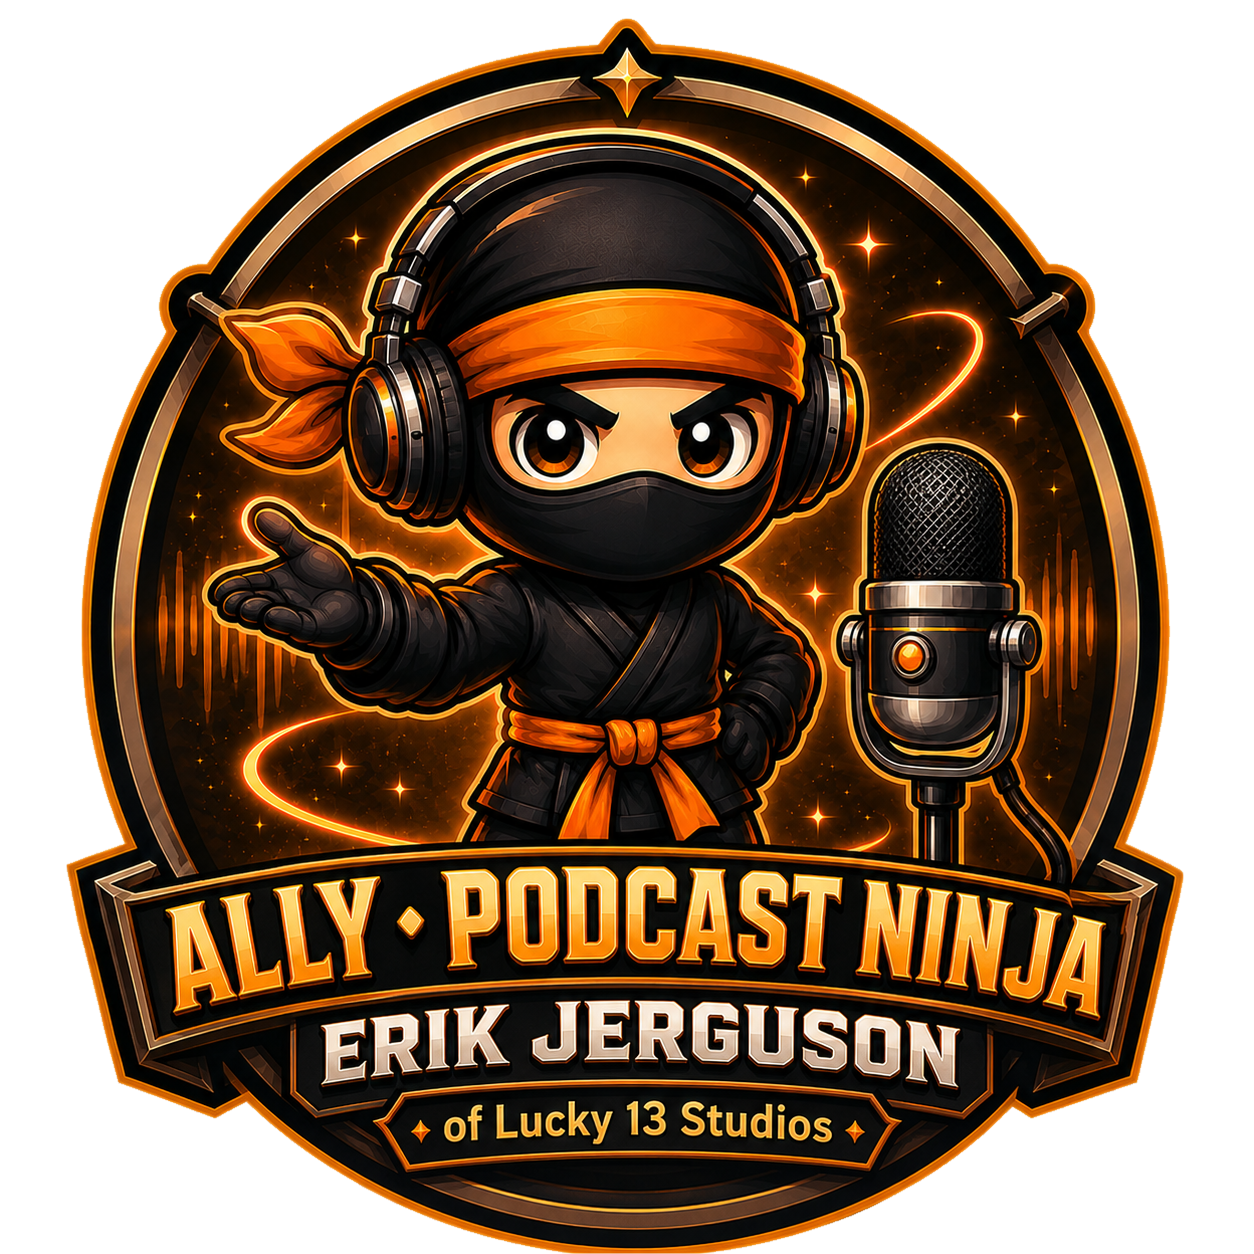
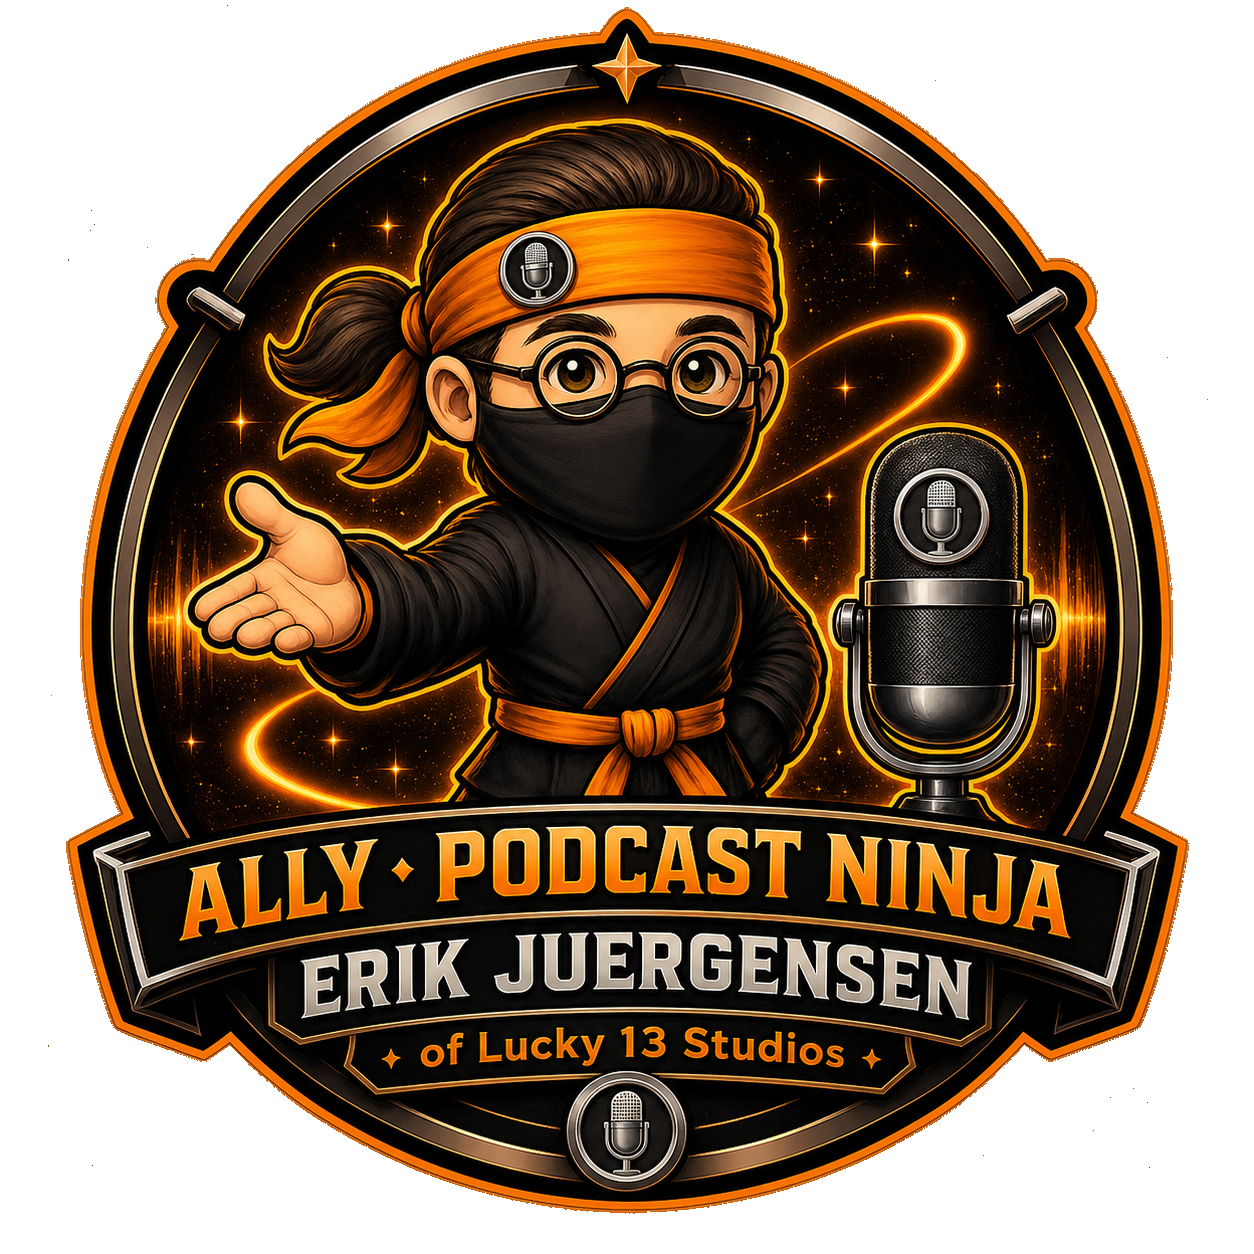
assets: new Tim + Erik emblems everywhere, and stop shipping 3MB PNGs
New art for the two ninjas, cut out to transparent PNG to match the
site's emblem convention (the ChatGPT exports arrived as flat RGB with
a baked-in orange gradient — dropped in raw they would have rendered as
squares on every page, and /foundinkc would have cropped the badge into
a circle). Background removed with an edge-aware flood fill, then the
96px and 320px webp variants regenerated from the cutouts.

Erik's new emblem also spells "Juergensen" correctly, retiring the
known "Jerguson" artwork misspelling.

Separately: every emblem <img> in public/ pointed at the full 1254px
source PNG while displaying at 24-150px. The Game Plan alone pulled
~18MB of art for eight small icons. All 26 references now use the
right-sized webp (96 for <=44px, 320 above) — same pixels, ~100x
lighter. Covers Gabe and Pavan too, since they sit on the same pages.

diff --git a/public/gameplan/index.html b/public/gameplan/index.html
@@ -217,14 +217,14 @@
     <p class="section-intro"><b>Who's on what — the whole roster in one look</b> (a dash just means that leg isn't theirs — each leg's work and pay belong to the people on it):</p>
     <div class="n360-tw"><table>
       <tr><th style="width:96px">Who</th><th>Leg 1 · Client Work</th><th>Leg 2 · The Engine</th><th>Leg 3 · Podcast</th><th>Leg 4 · Courses</th></tr>
-      <tr><td class="wk"><img src="/assets/crew/crew-tim-emblem.png" alt="" class="who-emblem">Tim</td><td class="mx-in">Owns · sells · captures</td><td class="mx-in">Scopes + pays</td><td class="mx-in">Co-host</td><td class="mx-in">Subject matter</td></tr>
-      <tr><td class="wk"><img src="/assets/crew/crew-gabe-emblem.png" alt="" class="who-emblem">Gabe</td><td class="mx-in">Premium capture</td><td class="mx-out">—</td><td class="mx-in">Co-host · director / editor</td><td class="mx-in">Production</td></tr>
-      <tr><td class="wk"><img src="/assets/crew/crew-pavan-emblem.png" alt="" class="who-emblem">Pavan</td><td class="mx-in">Field help only</td><td class="mx-in">Builds + owns rails</td><td class="mx-out">—</td><td class="mx-out">—</td></tr>
-      <tr><td class="wk"><img src="/assets/crew/crew-erik-emblem.png" alt="" class="who-emblem">Erik</td><td class="mx-out">—</td><td class="mx-out">—</td><td class="mx-in"><i>Potential</i> co-host</td><td class="mx-out">—</td></tr>
+      <tr><td class="wk"><img src="/assets/crew/web/crew-tim-emblem-96.webp" alt="" class="who-emblem">Tim</td><td class="mx-in">Owns · sells · captures</td><td class="mx-in">Scopes + pays</td><td class="mx-in">Co-host</td><td class="mx-in">Subject matter</td></tr>
+      <tr><td class="wk"><img src="/assets/crew/web/crew-gabe-emblem-96.webp" alt="" class="who-emblem">Gabe</td><td class="mx-in">Premium capture</td><td class="mx-out">—</td><td class="mx-in">Co-host · director / editor</td><td class="mx-in">Production</td></tr>
+      <tr><td class="wk"><img src="/assets/crew/web/crew-pavan-emblem-96.webp" alt="" class="who-emblem">Pavan</td><td class="mx-in">Field help only</td><td class="mx-in">Builds + owns rails</td><td class="mx-out">—</td><td class="mx-out">—</td></tr>
+      <tr><td class="wk"><img src="/assets/crew/web/crew-erik-emblem-96.webp" alt="" class="who-emblem">Erik</td><td class="mx-out">—</td><td class="mx-out">—</td><td class="mx-in"><i>Potential</i> co-host</td><td class="mx-out">—</td></tr>
     </table></div>
     <!-- LEG 1 -->
     <div class="leg">
-      <div class="leg-head"><span class="disp">Leg 1 · Client Work</span><span class="tag">Bucket A</span><span class="pill">On the Map</span><img src="/assets/crew/crew-tim-emblem.png" alt="" class="leg-emblem"><div class="leg-tldr">Serving the clients Tim already has. This is what pays the bills today.</div></div>
+      <div class="leg-head"><span class="disp">Leg 1 · Client Work</span><span class="tag">Bucket A</span><span class="pill">On the Map</span><img src="/assets/crew/web/crew-tim-emblem-96.webp" alt="" class="leg-emblem"><div class="leg-tldr">Serving the clients Tim already has. This is what pays the bills today.</div></div>
       <div class="leg-body">
         <div class="row"><div class="rlabel">What</div><div class="rval">Get KC businesses found &amp; chosen on Google: visibility audits, GBP optimization, 360 / drone / cinematic media, White → Black belt packages, the AI-Search NAP standard.</div></div>
         <div class="row"><div class="rlabel">Who</div><div class="rval"><span class="who"><b>Tim</b> · owns it — sells + captures</span><span class="who"><b>Gabe</b> · premium capture on Brown/Black jobs</span><span class="who"><b>Pavan</b> · field help only</span></div></div>
@@ -236,7 +236,7 @@
 
     <!-- LEG 2 -->
     <div class="leg">
-      <div class="leg-head"><span class="disp">Leg 2 · The Engine</span><span class="tag">Bucket B</span><span class="pill">On the Map</span><span class="pill">Sharpen the Blade</span><img src="/assets/crew/crew-pavan-emblem.png" alt="" class="leg-emblem"><div class="leg-tldr">Pavan builds the machine that brings in new clients — ready for the big September push.</div></div>
+      <div class="leg-head"><span class="disp">Leg 2 · The Engine</span><span class="tag">Bucket B</span><span class="pill">On the Map</span><span class="pill">Sharpen the Blade</span><img src="/assets/crew/web/crew-pavan-emblem-96.webp" alt="" class="leg-emblem"><div class="leg-tldr">Pavan builds the machine that brings in new clients — ready for the big September push.</div></div>
       <div class="leg-body">
         <div class="row"><div class="rlabel">What</div><div class="rval">The system that finds and lands <b>fresh customers</b>: outreach, free audits, a sales pipeline, and the automation behind it. Built piece by piece: invoice engine → shoot-wrap form → GHL pipeline → free-audit lead magnet → shoot automation (auto-sort, auto-color, auto-nadir, Shedit) → hardening.<br><a class="roadmap-link" href="/roadmaps/pavan">Full week-by-week detail: the Pavan roadmap →</a></div></div>
         <div class="row"><div class="rlabel">Who</div><div class="rval"><span class="who"><b>Pavan</b> · builds and runs it</span><span class="who"><b>Tim</b> · scopes, approves, pays</span></div></div>
@@ -248,7 +248,7 @@
 
     <!-- LEG 3 -->
     <div class="leg">
-      <div class="leg-head"><span class="disp">Leg 3 · "Found in KC" Podcast</span><span class="tag">Bucket B</span><span class="pill">True Story</span><img src="/assets/crew/crew-gabe-emblem.png" alt="" class="leg-emblem"><div class="leg-tldr">Tim + Gabe's show. Turns client wins into episodes — and makes Ninja-360 the name in KC.</div></div>
+      <div class="leg-head"><span class="disp">Leg 3 · "Found in KC" Podcast</span><span class="tag">Bucket B</span><span class="pill">True Story</span><img src="/assets/crew/web/crew-gabe-emblem-96.webp" alt="" class="leg-emblem"><div class="leg-tldr">Tim + Gabe's show. Turns client wins into episodes — and makes Ninja-360 the name in KC.</div></div>
       <div class="leg-body">
         <div class="row"><div class="rlabel">What</div><div class="rval"><b>The megaphone for everything else.</b> One show, not five formats. Client wins become episodes. Prospects become guests. The courses get a built-in audience. <i>Tagline: we put local businesses on the M.A.P.</i></div></div>
         <div class="row"><div class="rlabel">Who</div><div class="rval"><span class="who"><b>Tim + Gabe</b> · co-hosts</span><span class="who"><b>Gabe</b> · director / DP / editor</span><span class="who"><b>The customer</b> · featured guest</span><span class="who"><b>Erik</b> · <i>maybe</i> — Lucky 13 Studios + a co-host chair</span><br><span style="font-size:14px;color:var(--gray)"><b>Erik isn't locked yet.</b> The proposed trade: we host his site + set up his visibility ↔ we get his studio, his audience, and a co-host chair. Review it at 90 days. If he's in, he's in the show only — not the engine, not the client book.</span></div></div>
@@ -260,7 +260,7 @@
 
     <!-- LEG 4 -->
     <div class="leg">
-      <div class="leg-head"><span class="disp">Leg 4 · Ninja Trainings</span><span class="tag">Bucket B · starts Q4</span><span class="pill">Sharpen the Blade</span><img src="/assets/crew/crew-tim-emblem.png" alt="" class="leg-emblem"><div class="leg-tldr">Courses we film this fall and sell next year — the know-how, turned into a product.</div></div>
+      <div class="leg-head"><span class="disp">Leg 4 · Ninja Trainings</span><span class="tag">Bucket B · starts Q4</span><span class="pill">Sharpen the Blade</span><img src="/assets/crew/web/crew-tim-emblem-96.webp" alt="" class="leg-emblem"><div class="leg-tldr">Courses we film this fall and sell next year — the know-how, turned into a product.</div></div>
       <div class="leg-body">
         <div class="row"><div class="rlabel">What</div><div class="rval">Courses that sell while you sleep and train future field techs: FAA Part 107 <b>prep</b> · 360 photography (capture → stitch → publish) · more later (mobile DJI, edit craft, owner visibility).<br><a class="roadmap-link" href="/roadmaps/gabe">Detail: Gabe roadmap · Bucket 4 →</a></div></div>
         <div class="row"><div class="rlabel">Who</div><div class="rval"><span class="who"><b>Tim</b> · the expert on camera</span><span class="who"><b>Gabe</b> · films + produces</span></div></div>

diff --git a/public/legacy/roadmaps/pavan.html b/public/legacy/roadmaps/pavan.html
@@ -88,7 +88,7 @@
 
 <section>
   <div class="wrap">
-    <img src="/assets/crew/crew-pavan-emblem.png" alt="Pavan — Development Ninja" style="width:150px;float:right;margin-top:-6px;margin-left:14px;filter:drop-shadow(0 4px 10px rgba(0,0,0,.12))">
+    <img src="/assets/crew/web/crew-pavan-emblem-320.webp" alt="Pavan — Development Ninja" style="width:150px;float:right;margin-top:-6px;margin-left:14px;filter:drop-shadow(0 4px 10px rgba(0,0,0,.12))">
     <div class="wordmark">NINJA-360</div>
     <a class="backlink" href="../index.html">← Ninja-360 Dojo</a>
     <div class="kicker" style="margin-top:20px">Pavan Roadmap · Interleaved Phase-2 Plan · V01</div>
@@ -103,19 +103,19 @@
     <h2><span class="num">01 ·</span> Locked Principles</h2>
     <div class="principles">
       <div class="principle">
-        <img src="/assets/crew/crew-pavan-emblem.png" alt="" class="principle-mark">
+        <img src="/assets/crew/web/crew-pavan-emblem-96.webp" alt="" class="principle-mark">
         <div class="n">Principle 1</div>
         <h3>Interleaved, not sequential</h3>
         <p>Each week = one training module (manual) + one real build deliverable. Learn by doing, not by finishing a course first.</p>
       </div>
       <div class="principle">
-        <img src="/assets/crew/crew-pavan-emblem.png" alt="" class="principle-mark">
+        <img src="/assets/crew/web/crew-pavan-emblem-96.webp" alt="" class="principle-mark">
         <div class="n">Principle 2</div>
         <h3>AI modules are earned</h3>
         <p>Manual competency is the gate — Pavan proves he can do a step by hand <b>before</b> he gets the AI/automation module for it. Research-backed; locked by Tim.</p>
       </div>
       <div class="principle">
-        <img src="/assets/crew/crew-tim-emblem.png" alt="" class="principle-mark">
+        <img src="/assets/crew/web/crew-tim-emblem-96.webp" alt="" class="principle-mark">
         <div class="n">Principle 3</div>
         <h3>Start the clocks NOW</h3>
         <p>Two foundation items take real calendar time regardless of effort. They kick off <b>W1</b> and run in the background so they don't bottleneck the back half of the sprint.</p>
@@ -131,7 +131,7 @@
 
     <div class="clocks">
       <div class="clock">
-        <img src="/assets/crew/crew-pavan-emblem.png" alt="" class="clock-mark">
+        <img src="/assets/crew/web/crew-pavan-emblem-320.webp" alt="" class="clock-mark">
         <span class="tag">Clock 1 · Deliverability</span>
         <h3>Email Warm-Up</h3>
         <p class="why">Stand up <code>mail.</code> + <code>noreply.</code> subdomains with SPF/DKIM/DMARC per the domain strategy, then <b>ramp send volume gradually over ~3–6 weeks</b> to build sender reputation before any real marketing sends.</p>
@@ -140,7 +140,7 @@
       </div>
 
       <div class="clock">
-        <img src="/assets/crew/crew-pavan-emblem.png" alt="" class="clock-mark">
+        <img src="/assets/crew/web/crew-pavan-emblem-320.webp" alt="" class="clock-mark">
         <span class="tag">Clock 2 · SMS Compliance</span>
         <h3>A2P 10DLC / Toll-Free Registration</h3>
         <p class="why">Submit brand + campaign registration — <b>this is the same registration that clears the toll-free SMS block (Error 30032)</b>. Approval clock is days-to-weeks.</p>
@@ -158,7 +158,7 @@
 
 <section class="alt">
   <div class="wrap">
-    <img src="/assets/crew/crew-pavan-emblem.png" alt="Pavan — engine ninja" class="ninja-mark">
+    <img src="/assets/crew/web/crew-pavan-emblem-320.webp" alt="Pavan — engine ninja" class="ninja-mark">
     <h2><span class="num">03 ·</span> Interleaved Week by Week</h2>
     <p style="max-width:680px">Aligned to the 90-day sprint · <b>W2 = 7/20 kickoff</b>. Every week: one manual module + one build deliverable. Rows shaded <span class="earntag">EARNED</span> = AI / automation modules that unlock <b>after</b> manual competency.</p>
 

diff --git a/public/scrolls/warp-speed/index.html b/public/scrolls/warp-speed/index.html
@@ -147,7 +147,7 @@
   <h1>Ninja Warp Speed</h1>
   <p class="lead">The production pipeline. <b>One client visit → the client deliverable + the show — "Found in KC" <span style="font-weight:400">(we put local businesses on the M.A.P.).</span></b> Automation bolted onto your already-proven Hasan editing system — not a rebuild. The goal: faster to publish than anyone, so you get paid faster.</p>
 
-  <img src="/assets/crew/crew-tim-emblem.png" alt="Tim — Track 1" class="ws-mark" style="width:80px">
+  <img src="/assets/crew/web/crew-tim-emblem-320.webp" alt="Tim — Track 1" class="ws-mark" style="width:80px">
   <h2>1 · The One-Visit Model — Two Tracks, Two Outputs</h2>
   <div class="visit">
     <div class="top">One trip to the client's location</div>
@@ -223,9 +223,9 @@
     <div style="font-size:12.8px;color:#e8e2dc;margin-top:4px">The pipeline, the coined IP, every preset, template, script, LUT, and frame of footage sits with <b style="color:#fff">Ninja-360 Digital Media LLC</b> (operating as ninja360.net). The roles below are <b style="color:#fff">who builds and operates</b> each piece — not who owns it. Everything a partner creates here is <b style="color:#fff">work-for-hire assigned to the LLC</b>, per the Partner Framework. Tim owns the LLC; the LLC holds the IP — so it stays a <b style="color:#fff">business asset</b>, not a personal one. No role confers ownership, equity, or a claim on the assets.</div>
   </div>
   <div class="roles">
-    <div class="role"><img src="/assets/crew/crew-tim-emblem.png" alt="" class="mark"><div class="n">Tim</div><div class="r"><b>Founder / operator.</b> Shoot SOP + approval gate · Track 1 (drone/360) · captures the Ninja LUT</div></div>
-    <div class="role"><img src="/assets/crew/crew-gabe-emblem.png" alt="" class="mark"><div class="n">Gabe</div><div class="r"><b>Builds/operates:</b> Ninja Editor · Track 2 (interview/shots) · LUT + nadir + story templates</div></div>
-    <div class="role"><img src="/assets/crew/crew-pavan-emblem.png" alt="" class="mark"><div class="n">Pavan</div><div class="r"><b>Builds/operates:</b> automation (extend the script) · folder scaffolding · tags · shoot-wrap form</div></div>
+    <div class="role"><img src="/assets/crew/web/crew-tim-emblem-320.webp" alt="" class="mark"><div class="n">Tim</div><div class="r"><b>Founder / operator.</b> Shoot SOP + approval gate · Track 1 (drone/360) · captures the Ninja LUT</div></div>
+    <div class="role"><img src="/assets/crew/web/crew-gabe-emblem-320.webp" alt="" class="mark"><div class="n">Gabe</div><div class="r"><b>Builds/operates:</b> Ninja Editor · Track 2 (interview/shots) · LUT + nadir + story templates</div></div>
+    <div class="role"><img src="/assets/crew/web/crew-pavan-emblem-320.webp" alt="" class="mark"><div class="n">Pavan</div><div class="r"><b>Builds/operates:</b> automation (extend the script) · folder scaffolding · tags · shoot-wrap form</div></div>
   </div>
   <div class="ip"><b>Coined, brandable, and owned by Ninja-360 Digital Media LLC — IP asset #3:</b> Ninja Warp Speed (the pipeline) · Shedit (the auto first cut) · Ninja Editor (the role) · Nadir preset (branded 360/drone patch). Optional volume tier: Hasan at $80 FPV / $35 standard, 24h.</div>
 
@@ -268,7 +268,7 @@
   </table></div>
   <div class="ip" style="margin-top:10px"><b>"Ready to Edit" gate:</b> RAW in <b>01_RAW</b> + brand in <b>00_BRIEF/BRAND</b> + <b>Project Brief</b> done → triggers Warp Speed. If any of these three is missing, the pipeline does not start.</div>
 
-  <img src="/assets/crew/crew-gabe-emblem.png" alt="Gabe — Ninja Editor" class="ws-mark" style="width:80px">
+  <img src="/assets/crew/web/crew-gabe-emblem-320.webp" alt="Gabe — Ninja Editor" class="ws-mark" style="width:80px">
   <h2>9 · SOP — Ninja Warp Speed (editing pipeline)</h2>
   <div class="cols">
     <div>

diff --git a/public/scrolls/partner-pay/index.html b/public/scrolls/partner-pay/index.html
@@ -172,7 +172,7 @@
       <!-- LEDGER A -->
       <div class="ledger a">
         <div class="top">
-          <img src="/assets/crew/crew-tim-emblem.png" alt="" class="ledger-mark">
+          <img src="/assets/crew/web/crew-tim-emblem-320.webp" alt="" class="ledger-mark">
           <span class="tag">Ledger A</span>
           <div class="name">Existing Business — Ninja-360</div>
           <div class="who">Stable / already running · <b>excluded from partner economics</b></div>
@@ -209,7 +209,7 @@
       <!-- LEDGER B -->
       <div class="ledger b">
         <div class="top">
-          <img src="/assets/crew/crew-pavan-emblem.png" alt="" class="ledger-mark">
+          <img src="/assets/crew/web/crew-pavan-emblem-320.webp" alt="" class="ledger-mark">
           <span class="tag">Ledger B</span>
           <div class="name">The Engine</div>
           <div class="who">Tim × Gabe × Pavan · <b>starts at $0</b></div>
@@ -254,7 +254,7 @@
 
 <section class="alt">
   <div class="wrap">
-    <img src="/assets/crew/crew-gabe-emblem.png" alt="Gabe — story ninja" class="ninja-mark">
+    <img src="/assets/crew/web/crew-gabe-emblem-320.webp" alt="Gabe — story ninja" class="ninja-mark">
     <h2 id="gabe">3 · Gabe — Three Lanes</h2>
     <p style="max-width:680px">Gabe operates on three distinct engagements. Two are on Ledger A (Tim's book), one is Ledger B (engine). Setting rates on one lane never sets rates on the others.</p>
     <div class="buckets">
@@ -279,7 +279,7 @@
 
 <section>
   <div class="wrap">
-    <img src="/assets/crew/crew-pavan-emblem.png" alt="Pavan — engine ninja" class="ninja-mark">
+    <img src="/assets/crew/web/crew-pavan-emblem-320.webp" alt="Pavan — engine ninja" class="ninja-mark">
     <h2 id="pavan">4 · Pavan — Three Buckets</h2>
     <p style="max-width:680px">Same principle: separate arrangements, separate rates, separate timing. Bucket 2 is where the real engine gets built.</p>
     <div class="buckets">
@@ -308,7 +308,7 @@
 
 <section class="alt">
   <div class="wrap">
-    <img src="/assets/crew/crew-erik-emblem.png" alt="Erik — broadcast ninja" class="ninja-mark">
+    <img src="/assets/crew/web/crew-erik-emblem-320.webp" alt="Erik — broadcast ninja" class="ninja-mark">
     <h2 id="series">5 · The Series — Capped Founder Investment</h2>
     <p style="max-width:680px">The "Found in KC" show is Tim's investment in the engine's story layer. It comes out of Ledger A by choice; it does NOT come out of the engine.</p>
     <div class="buckets" style="grid-template-columns:1fr 1fr">

diff --git a/public/legacy/roadmaps/gabe.html b/public/legacy/roadmaps/gabe.html
@@ -61,7 +61,7 @@
 <div class="accent-top"></div>
 <section>
   <div class="wrap">
-    <img src="/assets/crew/crew-gabe-emblem.png" alt="Gabe — Creative Video Ninja" style="width:150px;float:right;margin-top:-10px;margin-left:14px;filter:drop-shadow(0 0 10px rgba(244,121,32,.38)) drop-shadow(0 0 24px rgba(244,121,32,.16)) drop-shadow(0 3px 8px rgba(0,0,0,.15))">
+    <img src="/assets/crew/web/crew-gabe-emblem-320.webp" alt="Gabe — Creative Video Ninja" style="width:150px;float:right;margin-top:-10px;margin-left:14px;filter:drop-shadow(0 0 10px rgba(244,121,32,.38)) drop-shadow(0 0 24px rgba(244,121,32,.16)) drop-shadow(0 3px 8px rgba(0,0,0,.15))">
     <div class="wordmark">NINJA-360</div>
     <a class="backlink" href="../index.html">← Ninja-360 Dojo</a>
     <div class="kicker" style="margin-top:24px">Creative Partnership Roadmap · Working Doc V01</div>
